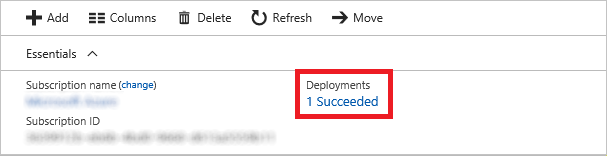
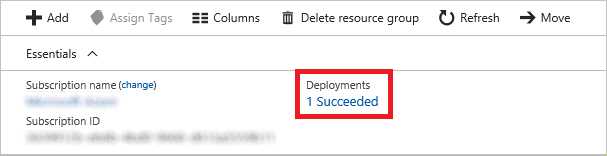
Updated HPC lab

Changed region(s): [[0.1483, 0.0513, 0.9489, 0.1795]]

diff --git a/Content/High-Performance Computing/SLURM Linux Cluster HOL.html b/Content/High-Performance Computing/SLURM Linux Cluster HOL.html
@@ -537,7 +537,7 @@ vertical-align:1px;
 <p><em>Editing the template</em></p>
 </li>
 <li>
-<p>On Line 50, change the Ubuntu version number to <strong>16.04-LTS</strong>. Then click the <strong>Save</strong> button to save the change.</p>
+<p>On Line 50, change the Ubuntu version number to <strong>16.04-LTS</strong> if that isn't the version that's currently referenced. Then click the <strong>Save</strong> button to save the change.</p>
 <p><a href="Images/edit-ubuntu-version.png" target="_blank"><img src="Images/edit-ubuntu-version.png" alt="Modifying the Ubuntu version number" style="max-width:100%;"></a></p>
 <p><em>Modifying the Ubuntu version number</em></p>
 </li>
@@ -784,7 +784,7 @@ dos2unix *
 <p><em>Opening the "output" container</em></p>
 </li>
 <li>
-<p>Click the blob named "Consoles_superhero_1920x768.2.jpg."</p>
+<p>Click the blob named <strong>Consoles_superhero_1920x768.2.jpg</strong>.</p>
 <p><a href="Images/open-converted-image.png" target="_blank"><img src="Images/open-converted-image.png" alt="Opening a converted image" style="max-width:100%;"></a></p>
 <p><em>Opening a converted image</em></p>
 </li>
@@ -825,7 +825,7 @@ dos2unix *
 <p>In this exercise, you will delete the resource group created in <a href="#Exercise1">Exercise 1</a> when you created the SLURM cluster. Deleting the resource group deletes everything in it and prevents any further charges from being incurred for it.</p>
 <ol>
 <li>
-<p>Return to the blade for the cluster's resource group. Then click the <strong>Delete</strong> button at the top of the blade.</p>
+<p>Return to the blade for the cluster's resource group. Then click the <strong>Delete resource group</strong> button at the top of the blade.</p>
 <p><a href="Images/delete-resource-group.png" target="_blank"><img src="Images/delete-resource-group.png" alt="Deleting a resource group" style="max-width:100%;"></a></p>
 <p><em>Deleting a resource group</em></p>
 </li>

diff --git a/Content/High-Performance Computing/SLURM Linux Cluster HOL.md b/Content/High-Performance Computing/SLURM Linux Cluster HOL.md
@@ -83,7 +83,7 @@ Let's get started!
 
 	_Editing the template_
 
-1. On Line 50, change the Ubuntu version number to **16.04-LTS**. Then click the **Save** button to save the change.
+1. On Line 50, change the Ubuntu version number to **16.04-LTS** if that isn't the version that's currently referenced. Then click the **Save** button to save the change.
 
     ![Modifying the Ubuntu version number](Images/edit-ubuntu-version.png)
 
@@ -363,7 +363,7 @@ If the job ran successfully, the grayscale images generated from the color image
 
     _Opening the "output" container_
 
-1. Click the blob named "Consoles_superhero_1920x768.2.jpg."
+1. Click the blob named **Consoles_superhero_1920x768.2.jpg**.
 
     ![Opening a converted image](Images/open-converted-image.png)
 
@@ -411,7 +411,7 @@ Resource groups are a useful feature of Azure because they simplify the task of 
 
 In this exercise, you will delete the resource group created in [Exercise 1](#Exercise1) when you created the SLURM cluster. Deleting the resource group deletes everything in it and prevents any further charges from being incurred for it.
 
-1. Return to the blade for the cluster's resource group. Then click the **Delete** button at the top of the blade.
+1. Return to the blade for the cluster's resource group. Then click the **Delete resource group** button at the top of the blade.
 
 	![Deleting a resource group](Images/delete-resource-group.png)
 
